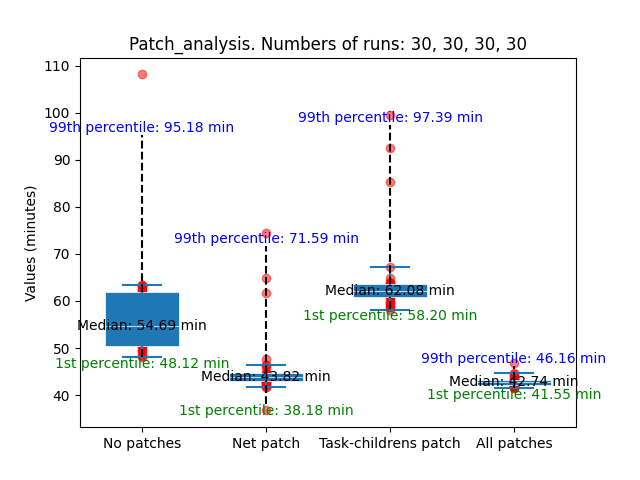
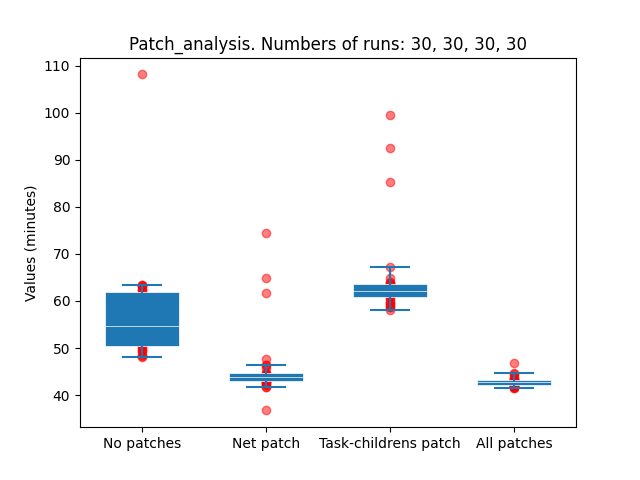
add standard_boxplot flag

diff --git a/src/common/analysis/box_plot.py b/src/common/analysis/box_plot.py
@@ -22,31 +22,43 @@ def calculate_percentiles(data):
     p99 = np.percentile(values, 99)
     return p1, p25, p50, p75, p99
 
-def plot_custom_boxplot(data_list, plot_name, save, show):
+def plot_custom_boxplot(data_list, plot_name, save, show, standard_boxplot):
     fig, ax = plt.subplots()
 
     positions = [1, 2, 3, 4]
     for i, data in enumerate(data_list):
         values = [item[1] / 60 for item in data]
-        p1, p25, p50, p75, p99 = calculate_percentiles(data)
-        p1, p25, p50, p75, p99 = p1 / 60, p25 / 60, p50 / 60, p75 / 60, p99 / 60
 
-        bp = ax.boxplot(values, positions=[positions[i]], widths=0.6, patch_artist=True,
-                        showmeans=False, showfliers=False,
-                        medianprops={"color": "white", "linewidth": 0.5},
-                        boxprops={"facecolor": "C0", "edgecolor": "white",
-                                  "linewidth": 0.5},
-                        whiskerprops={"color": "C0", "linewidth": 1.5},
-                        capprops={"color": "C0", "linewidth": 1.5})
+        if standard_boxplot:
+            bp = ax.boxplot(values, positions=[positions[i]], widths=0.6, patch_artist=True,
+                            showmeans=False, showfliers=False,
+                            medianprops={"color": "white", "linewidth": 0.5},
+                            boxprops={"facecolor": "C0", "edgecolor": "white",
+                                      "linewidth": 0.5},
+                            whiskerprops={"color": "C0", "linewidth": 1.5},
+                            capprops={"color": "C0", "linewidth": 1.5})
 
-        ax.plot([positions[i], positions[i]], [p1, p25], color='black', linestyle='--')
-        ax.plot([positions[i], positions[i]], [p75, p99], color='black', linestyle='--')
+            ax.scatter([positions[i]] * len(values), values, color='red', alpha=0.5)
+        else:
+            p1, p25, p50, p75, p99 = calculate_percentiles(data)
+            p1, p25, p50, p75, p99 = p1 / 60, p25 / 60, p50 / 60, p75 / 60, p99 / 60
 
-        ax.scatter([positions[i]] * len(values), values, color='red', alpha=0.5)
+            bp = ax.boxplot(values, positions=[positions[i]], widths=0.6, patch_artist=True,
+                            showmeans=False, showfliers=False,
+                            medianprops={"color": "white", "linewidth": 0.5},
+                            boxprops={"facecolor": "C0", "edgecolor": "white",
+                                      "linewidth": 0.5},
+                            whiskerprops={"color": "C0", "linewidth": 1.5},
+                            capprops={"color": "C0", "linewidth": 1.5})
 
-        ax.text(positions[i], p1, f'1st percentile: {p1:.2f} min', verticalalignment='top', horizontalalignment='center', color='green')
-        ax.text(positions[i], p99, f'99th percentile: {p99:.2f} min', verticalalignment='bottom', horizontalalignment='center', color='blue')
-        ax.text(positions[i], p50, f'Median: {p50:.2f} min', verticalalignment='center', horizontalalignment='center', color='black')
+            ax.plot([positions[i], positions[i]], [p1, p25], color='black', linestyle='--')
+            ax.plot([positions[i], positions[i]], [p75, p99], color='black', linestyle='--')
+
+            ax.scatter([positions[i]] * len(values), values, color='red', alpha=0.5)
+
+            ax.text(positions[i], p1, f'1st percentile: {p1:.2f} min', verticalalignment='top', horizontalalignment='center', color='green')
+            ax.text(positions[i], p99, f'99th percentile: {p99:.2f} min', verticalalignment='bottom', horizontalalignment='center', color='blue')
+            ax.text(positions[i], p50, f'Median: {p50:.2f} min', verticalalignment='center', horizontalalignment='center', color='black')
 
     title_text = f"{plot_name}. Numbers of runs: {', '.join(map(str, [len(sublist) for sublist in data_list]))}"
     plt.title(title_text)
@@ -68,8 +80,9 @@ if __name__ == "__main__":
     parser.add_argument('--plot_name', type=str, default='Patch_analysis', help='Enter title of plot')
     parser.add_argument('--save', action=argparse.BooleanOptionalAction, default=True, help='Save the plot')
     parser.add_argument('--show', action=argparse.BooleanOptionalAction, default=True, help='Show the plot')
+    parser.add_argument('--standard_boxplot', action=argparse.BooleanOptionalAction, default=False, help='Use standard box plot')
 
     args = parser.parse_args()
     file_paths = [args.file_path_no_pathes, args.file_path_net_patch, args.file_path_childrens_patch, args.file_path_all_patches]
     data_list = [read_data(file_path) for file_path in file_paths]
-    plot_custom_boxplot(data_list, args.plot_name, args.save, args.show)
+    plot_custom_boxplot(data_list, args.plot_name, args.save, args.show, args.standard_boxplot)

diff --git a/src/common/analysis/box_plot.md b/src/common/analysis/box_plot.md
@@ -22,6 +22,8 @@ options:
                         Enter title of plot
   --save, --no-save     Save the plot (default: True)
   --show, --no-show     Show the plot (default: True)
+  --standard_boxplot, --no-standard_boxplot
+                      Use standard box plot (default: False)
 ```
 
 
@@ -29,6 +31,7 @@ options:
 - `file_path_no_pathes`, `file_path_net_patch`, `file_path_childrens_patch`, `file_path_all_patches`: аргументы, помогающие указать пути к текстовым файлам - результатам работы эксперимента сборки `core-image-minimal` без патчей, с патчем балансировки нагрузки на сети, патчем, меняющим приоритет задач, и с обоими патчами соответственно. По умолчанию скрипт ожидает, что в дочерней (относительно расположения скрипта) директории `speeding_up_results` расположены файлы `time1.txt`, `time2.txt`, `time3.txt`, `time4.txt`.
 - `plot_name`: имя, которое используется в заголовке графика и под которым он сохраняется в формате PNG. По умолчанию устанавливается `Patch_analysis`.
 - `save` и `show`: значения, настраивающие поведение программы - показывать или не показывать, сохранять или не сохранять полученные графики. По умолчанию график показывается и сохраняется.
+- `standard_boxplot`: флаг, который можно указать, чтобы убрать все кастомизации, оставив только стандартный `boxplot` и отрисовку значений красными точками.
 
 ## Как читать графики?
 - По оси ординат указано время выполнения эксперимента (в минутах).
@@ -50,4 +53,11 @@ options:
 
 ## Результат работы скрипта 
 
+### Результат работы с флагом --standard_boxplot
+
 ![Patch_analysis.png](./Patch_analysis.png)
+
+
+### Результат работы без флага --standard_boxplot
+
+![Patch_analysis_full.png](./Patch_analysis_full.png)
